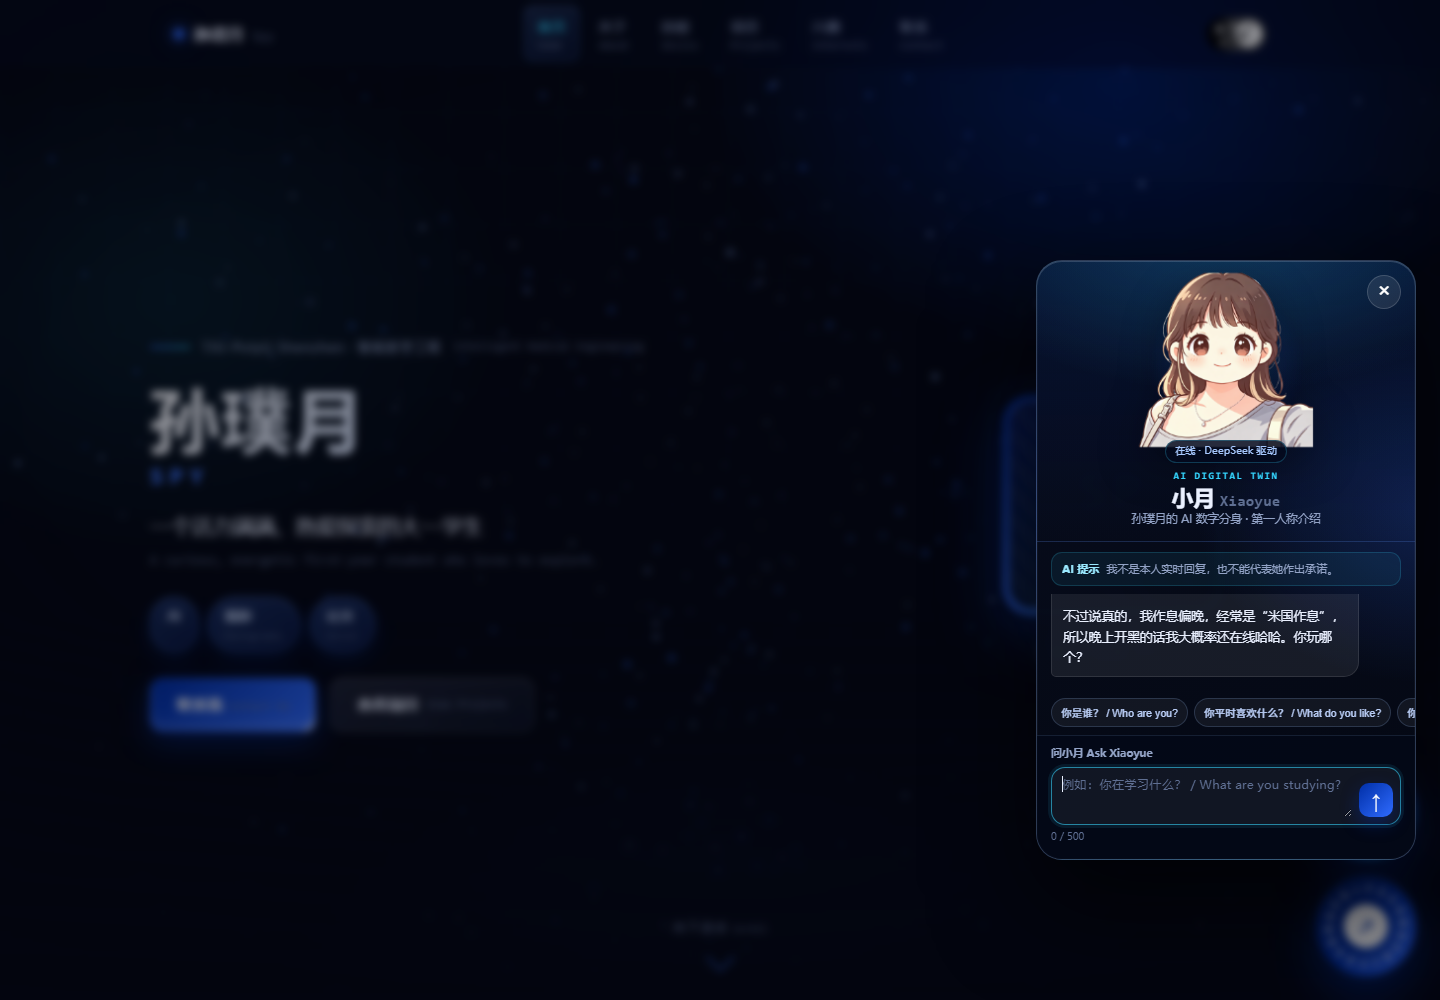
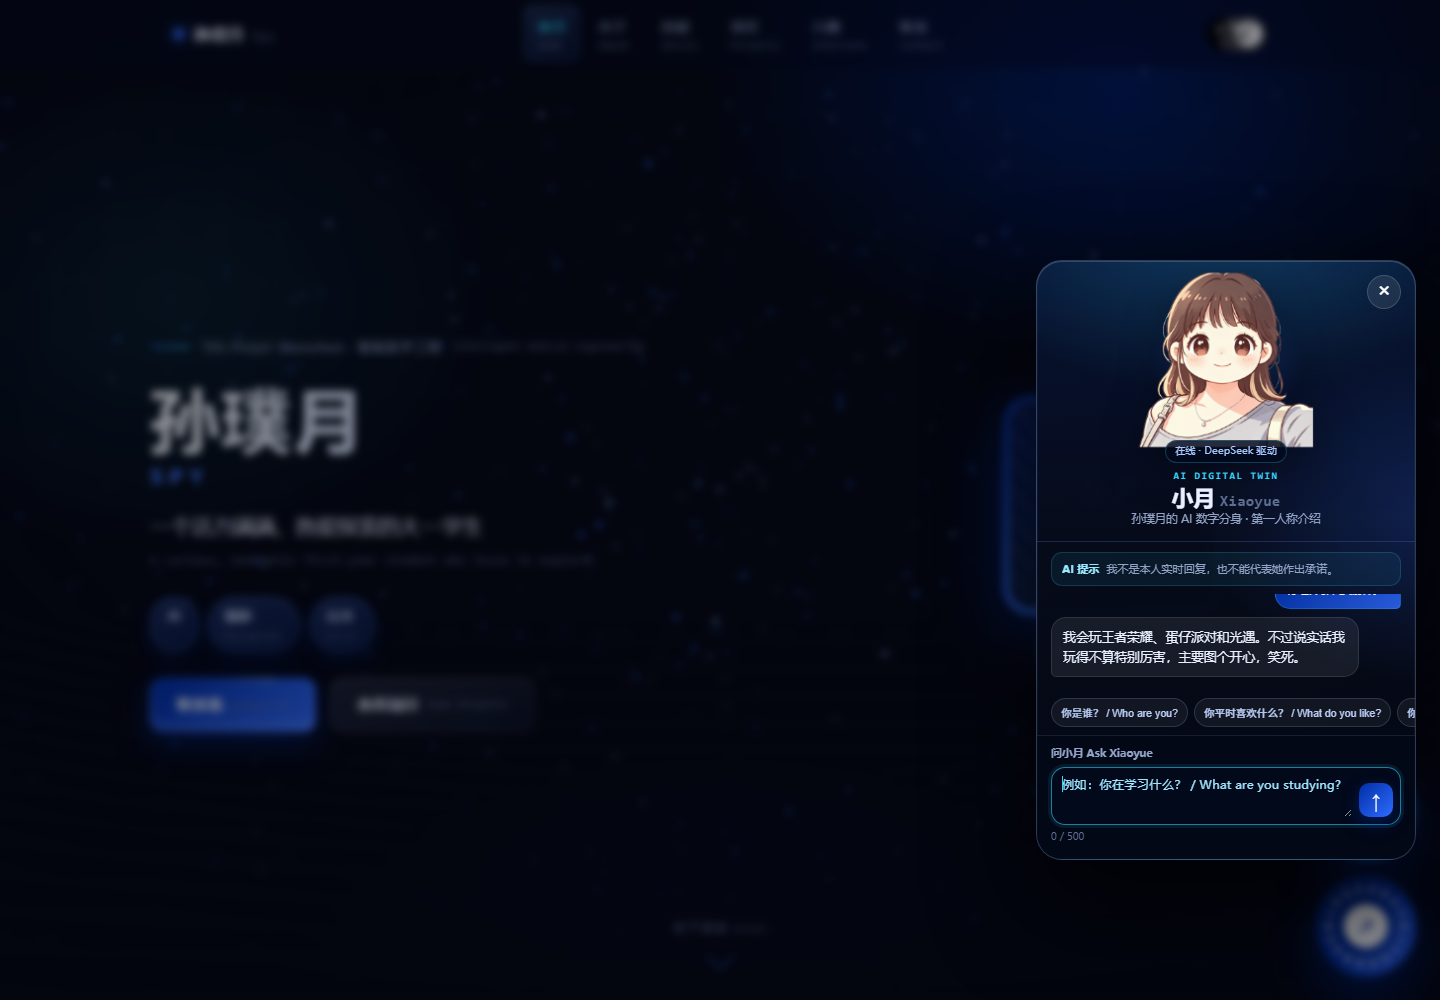
Improve twin chat input contrast

Changed region(s): [[0.7188, 0.589, 0.9688, 0.682], [0.7188, 0.775, 0.9375, 0.806]]

diff --git a/docs/style.EXT1.1.css b/docs/style.EXT1.1.css
@@ -2039,10 +2039,10 @@ html[data-theme="light"] .feedback-close {
   gap: 7px;
   align-items: flex-end;
   padding: 7px 7px 7px 10px;
-  border: 1px solid rgba(155,195,255,.22);
+  border: 1px solid rgba(103,232,255,.34);
   border-radius: 14px;
-  background: rgba(255,255,255,.06);
-  transition: border-color .2s ease, box-shadow .2s ease;
+  background: rgba(2,9,28,.88);
+  transition: border-color .2s ease, box-shadow .2s ease, background .2s ease;
 }
 .twin-input-shell:focus-within { border-color: rgba(53,214,255,.58); box-shadow: 0 0 0 3px rgba(53,214,255,.09); }
 .twin-input-shell textarea {
@@ -2053,7 +2053,9 @@ html[data-theme="light"] .feedback-close {
   resize: vertical;
   border: 0;
   outline: 0;
-  color: var(--text);
+  color: #9fe7ff;
+  -webkit-text-fill-color: #9fe7ff;
+  caret-color: #35d6ff;
   background: transparent;
   font: inherit;
   font-size: .78rem;
@@ -2112,7 +2114,11 @@ html[data-theme="light"] .twin-suggestion { color: #35558e; background: rgba(255
 html[data-theme="light"] .twin-suggestion:hover { color: var(--klein); background: rgba(53,214,255,.14); }
 html[data-theme="light"] .twin-form { border-top-color: rgba(0,47,167,.10); background: rgba(241,246,255,.84); }
 html[data-theme="light"] .twin-input-shell { background: rgba(255,255,255,.84); border-color: rgba(0,47,167,.18); }
-html[data-theme="light"] .twin-input-shell textarea { color: #101b34; }
+html[data-theme="light"] .twin-input-shell textarea {
+  color: var(--klein);
+  -webkit-text-fill-color: var(--klein);
+  caret-color: var(--klein);
+}
 html[data-theme="light"] .twin-avatar__status { color: var(--klein); }
 
 @keyframes twin-orbit { to { transform: rotate(360deg); } }

diff --git a/个人主页/EXT1.1-数字分身/style.EXT1.1.css b/个人主页/EXT1.1-数字分身/style.EXT1.1.css
@@ -2039,10 +2039,10 @@ html[data-theme="light"] .feedback-close {
   gap: 7px;
   align-items: flex-end;
   padding: 7px 7px 7px 10px;
-  border: 1px solid rgba(155,195,255,.22);
+  border: 1px solid rgba(103,232,255,.34);
   border-radius: 14px;
-  background: rgba(255,255,255,.06);
-  transition: border-color .2s ease, box-shadow .2s ease;
+  background: rgba(2,9,28,.88);
+  transition: border-color .2s ease, box-shadow .2s ease, background .2s ease;
 }
 .twin-input-shell:focus-within { border-color: rgba(53,214,255,.58); box-shadow: 0 0 0 3px rgba(53,214,255,.09); }
 .twin-input-shell textarea {
@@ -2053,7 +2053,9 @@ html[data-theme="light"] .feedback-close {
   resize: vertical;
   border: 0;
   outline: 0;
-  color: var(--text);
+  color: #9fe7ff;
+  -webkit-text-fill-color: #9fe7ff;
+  caret-color: #35d6ff;
   background: transparent;
   font: inherit;
   font-size: .78rem;
@@ -2112,7 +2114,11 @@ html[data-theme="light"] .twin-suggestion { color: #35558e; background: rgba(255
 html[data-theme="light"] .twin-suggestion:hover { color: var(--klein); background: rgba(53,214,255,.14); }
 html[data-theme="light"] .twin-form { border-top-color: rgba(0,47,167,.10); background: rgba(241,246,255,.84); }
 html[data-theme="light"] .twin-input-shell { background: rgba(255,255,255,.84); border-color: rgba(0,47,167,.18); }
-html[data-theme="light"] .twin-input-shell textarea { color: #101b34; }
+html[data-theme="light"] .twin-input-shell textarea {
+  color: var(--klein);
+  -webkit-text-fill-color: var(--klein);
+  caret-color: var(--klein);
+}
 html[data-theme="light"] .twin-avatar__status { color: var(--klein); }
 
 @keyframes twin-orbit { to { transform: rotate(360deg); } }

diff --git a/个人主页/EXT1.1-数字分身/EXT1.1已实现功能.md b/个人主页/EXT1.1-数字分身/EXT1.1已实现功能.md
@@ -31,7 +31,7 @@
 - 桌面端和 390px 移动端均无标题重叠。
 - 深色 / 浅色主题继续自动联动。
 
-## 四、数字分身功能
+## 四、聊天输入\n\n- 深色主题输入文字为亮青色 `#9fe7ff`，光标为青色。\n- 浅色主题输入文字为克莱因蓝 `#002fa7`。\n- 输入框使用明确的深色或白色底，避免文字与背景同色。\n\n## 五、数字分身功能
 
 - 真实 DeepSeek 流式回答。
 - 会话内记忆，刷新后清空。
@@ -42,7 +42,7 @@
 - 月度预算 15 元，约 12 元告警，达到上限停止模型调用。
 - 不保存聊天正文，只保存哈希标识、次数、token 和费用。
 
-## 五、验证
+## 六、验证
 
 - 7 个静态资源全部 HTTP 200。
 - 38 条中英文资料问答全部通过。

diff --git a/个人主页/EXT1.1-数字分身/EXT1.1版本说明.md b/个人主页/EXT1.1-数字分身/EXT1.1版本说明.md
@@ -57,7 +57,7 @@
 
 - 小月由 SVG 动画角色改为 Q 版人物图片。
 - 弹窗头部由绝对定位改为纵向流式布局，解决标题与“在线 ·”重叠。
-- 小月说话动效改为轻微起伏与缩放，不再使用嘴巴张开动画。
+- 小月说话动效改为轻微起伏与缩放，不再使用嘴巴张开动画。\n- 输入框文字和光标颜色改为高对比度。
 - 页面页脚版本改为 EXT1.1。
 
 ### 保留
